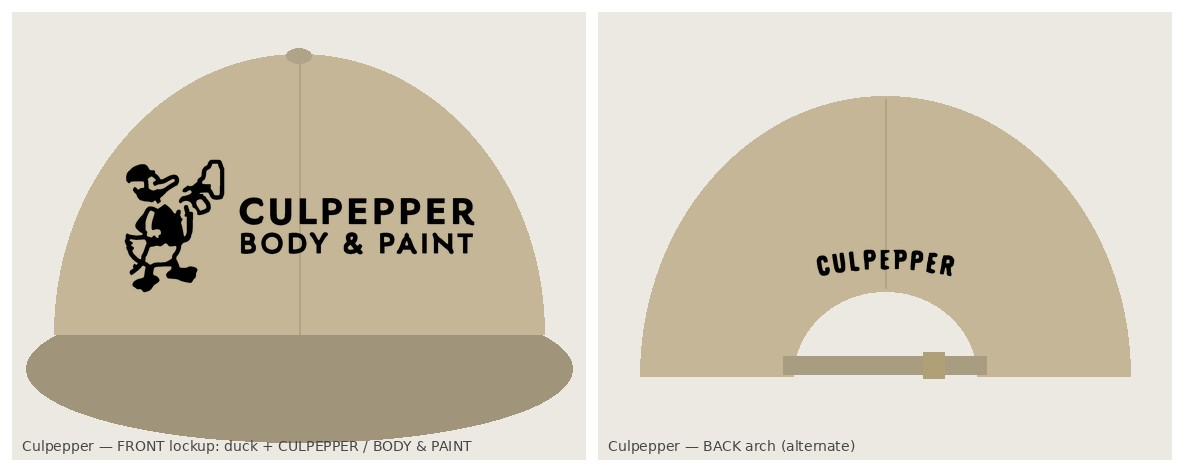
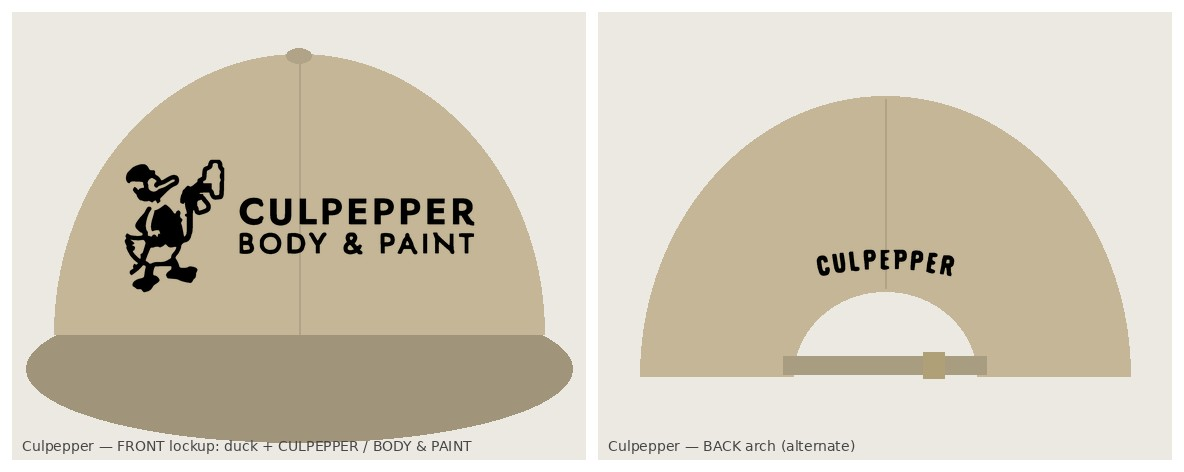
Culpepper hat duck: stitch-safe face (pie-cut eye), joined hand, all Culpepper hat files re-checked
Claude-Session: https://claude.ai/code/session_01TqhzTg1EJZZfGMFmW7WiyP

diff --git a/src/newsprint/builds/hats_build_v3.py b/src/newsprint/builds/hats_build_v3.py
@@ -87,6 +87,20 @@ def enforce_gaps(m, gap=GAP):
             out[(lab == j) & (dt < gap)] = False
     return out
 
+def bridge_gaps(m, gap=GAP):
+    """Where two separate shapes come closer than `gap`, JOIN them (fill the narrow white between) —
+    right for cartoon art where a sliver cut is accidental (a hand nearly severed from its arm)."""
+    n, lab, st, _ = cv2.connectedComponentsWithStats(m.astype(np.uint8), 8)
+    out = m.copy(); r = gap / 2 + 1
+    dts = {i: cv2.distanceTransform((lab != i).astype(np.uint8), cv2.DIST_L2, 5) for i in range(1, n) if st[i, 4] > 1500}
+    keys = list(dts)
+    for a_ in range(len(keys)):
+        for b_ in range(a_ + 1, len(keys)):
+            i, j = keys[a_], keys[b_]
+            if dts[i][lab == j].min() < gap:
+                out |= (dts[i] < r) & (dts[j] < r)
+    return out
+
 def prep(m):
     """final-size mask -> stitch-safe: strokes >= 0.05in, counters opened, pieces and letters >= 0.06in apart."""
     m = enforce_min_stroke(m, 0.05); m = open_counters(m, 2); m = enforce_min_stroke(m, 0.05)
@@ -180,7 +194,7 @@ if __name__ == "__main__":
     # 6) CULPEPPER duck (front) — v3 duck with opened face/shirt/arm, built at embroidery weight in culpepper/build.py
     dk = np.array(Image.open(f"{HB}/culpepper/culpepper_duck_hat_embroidery.png"))[..., 3] > 127
     ys, xs = np.where(dk); dk = dk[ys.min():ys.max() + 1, xs.min():xs.max() + 1]
-    dk = enforce_gaps(prep(dk))
+    dk = bridge_gaps(enforce_min_stroke(dk, 0.05))   # stroke rebuild + join sliver gaps (counter-opening/trimming damaged the face)
     results["duck"] = finish(dk, "black", "hat_culpepper_duck_black")
 
     # 7) CULPEPPER back — single arched word on the 2.0 x 1.0 in back panel, <= 5 characters per inch.
@@ -223,10 +237,10 @@ if __name__ == "__main__":
 
     # 8) CULPEPPER front lockup (alternate): duck + CULPEPPER / BODY & PAINT beside it, all on the 5.5 x 2.0 front
     t1 = textline("CULPEPPER", JOST, [700], 0.08, h_in=0.40)
-    t2 = textline("BODY & PAINT", JOST, [640], 0.10, h_in=0.32)
+    t2 = textline("BODY & PAINT", JOST, [560], 0.12, h_in=0.34)
     t2 = fit(t2, w_in=min(t2.shape[1] / DPI, t1.shape[1] / DPI)) if t2.shape[1] > t1.shape[1] else t2
     txt = vstack([t1, t2], 0.10)
-    dks = enforce_gaps(prep(fit(dk, h_in=1.9)))
+    dks = dk
     H = max(dks.shape[0], txt.shape[0]); lock = np.zeros((H, dks.shape[1] + int(0.22 * DPI) + txt.shape[1]), bool)
     lock[H - dks.shape[0]:, :dks.shape[1]] = dks
     ty = (H - txt.shape[0]) // 2; lock[ty:ty + txt.shape[0], dks.shape[1] + int(0.22 * DPI):] = txt

diff --git a/src/newsprint/builds/culpepper_duck_details.py b/src/newsprint/builds/culpepper_duck_details.py
@@ -30,16 +30,16 @@ def details_hat(region, w):
     eye and pupil enlarged so each stitches (pupil ~0.05in, white ring around it ~0.05in)."""
     out = region.copy().astype(np.uint8)
     P = lambda pts: np.array(pts, np.int32)
-    cv2.polylines(out, [P([(150, 250), (205, 256), (250, 250)])], False, 0, int(w * 1.3))                                      # cap brim keyline (stops behind the eye)
-    cv2.ellipse(out, (340, 246), (int(w * 1.3), int(w * 1.55)), -10, 0, 360, 0, -1)                                # eye white
-    cv2.ellipse(out, (350 + w // 6, 252), (int(w * 0.55), int(w * 0.75)), -10, 0, 360, 1, -1)                     # pupil
+    cv2.polylines(out, [P([(150, 250), (205, 256), (232, 254)])], False, 0, int(w * 1.3))                                      # cap brim keyline (ends well behind the eye)
+    cv2.ellipse(out, (344, 258), (int(w * 1.55), int(w * 1.75)), -10, 0, 360, 0, -1)                               # eye white: >= 0.05in black to the cap
+    cv2.ellipse(out, (382, 264), (int(w * 0.55), int(w * 0.75)), -10, 0, 360, 1, -1)                               # pupil touches the front of the eye (pie-cut, looking at the gun): no floating island
     cv2.polylines(out, [P([(396, 276), (444, 262), (492, 241), (536, 218)])], False, 0, w)                         # bill line
     for name, pts in KEYLINES.items():
-        if name == "bill_base": continue          # would merge with the eye at stitch width
-        cv2.polylines(out, [P(pts)], False, 0, thickness=w)
-        for p in (pts[0], pts[-1]): cv2.circle(out, p, w // 2, 0, -1)
-    for c, ax, ang in FINGERS:
-        cv2.ellipse(out, c, (max(ax[0], int(w * 0.75)), max(ax[1], w // 2)), ang, 0, 360, 0, -1)
+        if name in ("bill_base", "cuff"): continue   # bill_base merges with the eye, cuff pinches next to the gun at stitch width
+        wk = int(w * 1.25)                         # 25% margin so cuts stay >= 0.05in after stroke rebuild
+        cv2.polylines(out, [P(pts)], False, 0, thickness=wk)
+        for p in (pts[0], pts[-1]): cv2.circle(out, p, wk // 2, 0, -1)
+    # glove fingers omitted at hat size: the cuts are too small to stay open when stitched (kept on the tee)
     return out > 0
 
 def thicken_outlines(b, min_px):

diff --git a/hattiesburg/wave2/README.md b/hattiesburg/wave2/README.md
@@ -43,7 +43,7 @@ Specs re-verified from Printful's own templates (10-22): dad hat front **5.5 x 2
 | `../hubcity_ad_front_v3.png` | **Use for the white tee.** v2 art + press compensation for DTG on cotton: smallest-copy strokes rebuilt to ≥ 1.5 pt; halftone minimum feature 0.01 in (highlight dots grown, shadow openings opened) so photos don't plug. Look unchanged. Proof: `mocks/hubcity_white_tee_press_check.jpg` (ink-spread simulation, v2 vs v3) |
 | `camelot_v3_{bag1974,sign_red_blue,sign_red_white,tristripe}.{png,svg}` | Letterforms matched to the 1970s bag + 1974 Cloverleaf sign: Old English swash C (Manufacturing Consent, OFL) + Grenze Gotisch Black (OFL) at **natural width** (v2 was wrongly compressed). Bag construction rebuilt as **true vector offsets** (red fill / open channel / red keyline, mitred corners) — no raster rings. Groove arcs pass behind the lettering. SVG masters included. Mocks: `mocks/camelot_v3_mocks.jpg` |
 | `hhs_v3_*`, `hhs_H_v3.svg` | **Real typeface letter.** Surveyed ~40 blackletter faces (Google OFL, Peter Wiegel OFL, 1001fonts FFC); Old English Text MT = Cloister Black design (looped H), not the jersey's. Closest usable match to the 1983 jersey H = **Manufacturing Consent capital H (OFL)** — same top flag, mid spur, sweeping foot — leaned to the jersey slant, clean vector. `mocks/hhs_H_v3_compare.png` (jersey / v2 / v3), `mocks/hhs_font_survey_*.png` |
-| `culpepper_{full,houserule}_*`, `culpepper_duck_hat_embroidery.*` | Duck v3: more negative space — bill base line, collar V, sleeve line, armpit line, wrist cuff, glove fingers on the gun hand (traces in the original), cloud as clean outline. The 1968 print is solid black there (ink spread), so these are drawn in the ad's cartoon idiom |
+| `culpepper_{full,houserule}_*`, `culpepper_duck_hat_embroidery.*` | Duck v3: more negative space — bill base line, collar V, sleeve line, armpit line, wrist cuff, glove fingers on the gun hand (traces in the original), cloud as clean outline. The 1968 print is solid black there (ink spread), so these are drawn in the ad's cartoon idiom. Hat weight: every cut ≥ 0.05 in, pie-cut eye, no fingers/cuff (too small to stitch). `mocks/culpepper_duck_v2_v3.jpg` |
 | `hats/*` (all) | **Every file run through an embroidery checker** (medial-axis stroke width, stitch-merge test for gaps/counters, text height, cpi, size): letters re-spaced ≥ 0.06 in, thin strokes rebuilt to 0.05 in, counters opened, **exact Printful thread colours** (Red 1839 #CC3333, Purple 1832 #6B5294, Gold 1951 #FFCC00, White, Black). Britches now `hat_britches_white.png` (no cream thread exists). All PASS except the flagged alternate below |
 | `hats/hat_culpepper_front_lockup_black.png` | **Culpepper text, primary:** duck + CULPEPPER / BODY & PAINT on the 5.5 in front (passes every check) |
 | `hats/hat_culpepper_back_black.png` | Alternate: arched CULPEPPER on the 2 x 1 in back (1.96 in, 4.6 cpi, condensed gothic like the ad). **Flag:** at this size the P/R bowls (~0.04 in) will fill when stitched. "BODY & PAINT" can't fit the back at ≤ 5 cpi |
